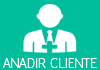
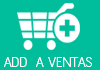
Modifique el reinicio del programa agregue nuevas imagenes

diff --git a/src/Principal/Inicio.java b/src/Principal/Inicio.java
@@ -69,8 +69,6 @@ public class Inicio extends javax.swing.JFrame implements Conexion{
 
         logoFondo.setIcon(new javax.swing.ImageIcon(getClass().getResource("/splashface/Images/fondo.png"))); // NOI18N
 
-        jDesktopPane1.setLayer(logoFondo, javax.swing.JLayeredPane.DEFAULT_LAYER);
-
         javax.swing.GroupLayout jDesktopPane1Layout = new javax.swing.GroupLayout(jDesktopPane1);
         jDesktopPane1.setLayout(jDesktopPane1Layout);
         jDesktopPane1Layout.setHorizontalGroup(
@@ -87,6 +85,7 @@ public class Inicio extends javax.swing.JFrame implements Conexion{
                 .addComponent(logoFondo, javax.swing.GroupLayout.PREFERRED_SIZE, 524, javax.swing.GroupLayout.PREFERRED_SIZE)
                 .addGap(75, 75, 75))
         );
+        jDesktopPane1.setLayer(logoFondo, javax.swing.JLayeredPane.DEFAULT_LAYER);
 
         getContentPane().add(jDesktopPane1, new org.netbeans.lib.awtextra.AbsoluteConstraints(0, 0, 1380, 730));
 
@@ -279,6 +278,11 @@ public class Inicio extends javax.swing.JFrame implements Conexion{
         jMenuItem18.setBorder(null);
         jMenuItem18.setContentAreaFilled(false);
         jMenuItem18.setIconTextGap(2);
+        jMenuItem18.addActionListener(new java.awt.event.ActionListener() {
+            public void actionPerformed(java.awt.event.ActionEvent evt) {
+                jMenuItem18ActionPerformed(evt);
+            }
+        });
         jMenu2.add(jMenuItem18);
 
         JMenuBar1.add(jMenu2);
@@ -472,6 +476,18 @@ public class Inicio extends javax.swing.JFrame implements Conexion{
         av.setLocation((desktopSize.width - FrameSize.width)/2, (desktopSize.height- FrameSize.height)/2);
         av.show();
     }//GEN-LAST:event_jMenuItem15ActionPerformed
+
+    private void jMenuItem18ActionPerformed(java.awt.event.ActionEvent evt) {//GEN-FIRST:event_jMenuItem18ActionPerformed
+         // Reiniciar App
+        System.err.println("Someone is Restarting me...");
+        setVisible(false);
+        try {
+    Thread.sleep(5000);
+        } catch (InterruptedException e1) {
+          e1.printStackTrace();
+        }
+setVisible(true);
+    }//GEN-LAST:event_jMenuItem18ActionPerformed
 
     /**
      * @param args the command line arguments

diff --git a/src/Principal/IngresarStock.java b/src/Principal/IngresarStock.java
@@ -126,7 +126,7 @@ Stock s = new Stock();
                 precioVentaActionPerformed(evt);
             }
         });
-        getContentPane().add(precioVenta, new org.netbeans.lib.awtextra.AbsoluteConstraints(390, 330, 80, 20));
+        getContentPane().add(precioVenta, new org.netbeans.lib.awtextra.AbsoluteConstraints(400, 330, 80, 20));
 
         precioCompra.setForeground(new java.awt.Color(204, 204, 255));
         precioCompra.setHorizontalAlignment(javax.swing.JTextField.CENTER);
@@ -144,7 +144,7 @@ Stock s = new Stock();
                 precioCompraActionPerformed(evt);
             }
         });
-        getContentPane().add(precioCompra, new org.netbeans.lib.awtextra.AbsoluteConstraints(90, 340, 80, 20));
+        getContentPane().add(precioCompra, new org.netbeans.lib.awtextra.AbsoluteConstraints(90, 330, 80, 20));
 
         cantidadMinima.setForeground(new java.awt.Color(204, 204, 255));
         cantidadMinima.setHorizontalAlignment(javax.swing.JTextField.CENTER);
@@ -263,13 +263,17 @@ Stock s = new Stock();
         });
         getContentPane().add(CodigoBarras, new org.netbeans.lib.awtextra.AbsoluteConstraints(90, 100, 140, 20));
 
-        jButton1.setText("Agregar Categoria");
+        jButton1.setIcon(new javax.swing.ImageIcon(getClass().getResource("/ImagenesPaneles/iconocategoria.png"))); // NOI18N
+        jButton1.setBorder(null);
+        jButton1.setBorderPainted(false);
+        jButton1.setContentAreaFilled(false);
+        jButton1.setCursor(new java.awt.Cursor(java.awt.Cursor.HAND_CURSOR));
         jButton1.addActionListener(new java.awt.event.ActionListener() {
             public void actionPerformed(java.awt.event.ActionEvent evt) {
                 jButton1ActionPerformed(evt);
             }
         });
-        getContentPane().add(jButton1, new org.netbeans.lib.awtextra.AbsoluteConstraints(330, 230, 130, -1));
+        getContentPane().add(jButton1, new org.netbeans.lib.awtextra.AbsoluteConstraints(290, 190, 40, -1));
 
         jBguardar.setIcon(new javax.swing.ImageIcon(getClass().getResource("/ImagenesPaneles/Guardarg.png"))); // NOI18N
         jBguardar.setAlignmentY(0.0F);

diff --git a/src/Principal/MenuVentas.java b/src/Principal/MenuVentas.java
@@ -204,7 +204,7 @@ String id="";
         });
         getContentPane().add(jButton2, new org.netbeans.lib.awtextra.AbsoluteConstraints(1110, 320, 100, 70));
 
-        jButton3.setIcon(new javax.swing.ImageIcon(getClass().getResource("/ImagesMenu/UC/ADD CLIENTE.png"))); // NOI18N
+        jButton3.setIcon(new javax.swing.ImageIcon(getClass().getResource("/ImagesMenu/UC/CANTIDAD.png"))); // NOI18N
         jButton3.setCursor(new java.awt.Cursor(java.awt.Cursor.HAND_CURSOR));
         jButton3.addMouseListener(new java.awt.event.MouseAdapter() {
             public void mouseClicked(java.awt.event.MouseEvent evt) {
@@ -240,13 +240,16 @@ String id="";
         });
         getContentPane().add(jButton6, new org.netbeans.lib.awtextra.AbsoluteConstraints(1230, 510, 100, 70));
 
-        add.setText("ADD");
+        add.setIcon(new javax.swing.ImageIcon(getClass().getResource("/ImagesMenu/UC/ADD CLIENTE.png"))); // NOI18N
+        add.setBorder(null);
+        add.setBorderPainted(false);
+        add.setContentAreaFilled(false);
         add.addActionListener(new java.awt.event.ActionListener() {
             public void actionPerformed(java.awt.event.ActionEvent evt) {
                 addActionPerformed(evt);
             }
         });
-        getContentPane().add(add, new org.netbeans.lib.awtextra.AbsoluteConstraints(1250, 140, -1, -1));
+        getContentPane().add(add, new org.netbeans.lib.awtextra.AbsoluteConstraints(1230, 140, -1, -1));
 
         getAccessibleContext().setAccessibleName("");
 

diff --git a/src/Principal/ModificarUsuario.java b/src/Principal/ModificarUsuario.java
@@ -91,10 +91,12 @@ public class ModificarUsuario extends javax.swing.JInternalFrame {
         });
         getContentPane().add(jTcontraseña, new org.netbeans.lib.awtextra.AbsoluteConstraints(60, 140, 210, 30));
 
-        jBeliminar.setText("ELIMINAR US");
+        jBeliminar.setIcon(new javax.swing.ImageIcon(getClass().getResource("/ImagesMenu/UC/Eliminar_1.png"))); // NOI18N
         jBeliminar.setAlignmentY(0.0F);
         jBeliminar.setBorder(null);
-        getContentPane().add(jBeliminar, new org.netbeans.lib.awtextra.AbsoluteConstraints(30, 260, 120, 40));
+        jBeliminar.setBorderPainted(false);
+        jBeliminar.setContentAreaFilled(false);
+        getContentPane().add(jBeliminar, new org.netbeans.lib.awtextra.AbsoluteConstraints(30, 260, 140, 40));
 
         jBagregar.setIcon(new javax.swing.ImageIcon(getClass().getResource("/ImagesMenu/UC/agregar.png"))); // NOI18N
         jBagregar.setAlignmentY(0.0F);

diff --git a/src/Login/ConexionJava.java b/src/Login/ConexionJava.java
@@ -23,7 +23,8 @@ public static Connection conn=null;
              Class.forName("com.mysql.jdbc.Driver").newInstance(); 
                 
              //conn = DriverManager.getConnection("jdbc:mysql://localhost:3306/farmacia?"+"user=root&password=01234");
-             conn = DriverManager.getConnection("jdbc:mysql://localhost:3306/farmacia?"+"user=root&password=root");
+             //conn = DriverManager.getConnection("jdbc:mysql://localhost:3306/farmacia?"+"user=root&password=root");
+             conn = DriverManager.getConnection("jdbc:mysql://localhost:3306/farmacia?"+"user=root&password=Gloria.");
        //  JOptionPane.showMessageDialog(null, "Conexion exitosa");
              
             

diff --git a/src/Principal/ArticulosaVencer.java b/src/Principal/ArticulosaVencer.java
@@ -31,11 +31,11 @@ public class ArticulosaVencer extends javax.swing.JInternalFrame {
         getContentPane().setLayout(layout);
         layout.setHorizontalGroup(
             layout.createParallelGroup(javax.swing.GroupLayout.Alignment.LEADING)
-            .addGap(0, 394, Short.MAX_VALUE)
+            .addGap(0, 713, Short.MAX_VALUE)
         );
         layout.setVerticalGroup(
             layout.createParallelGroup(javax.swing.GroupLayout.Alignment.LEADING)
-            .addGap(0, 274, Short.MAX_VALUE)
+            .addGap(0, 388, Short.MAX_VALUE)
         );
 
         pack();
